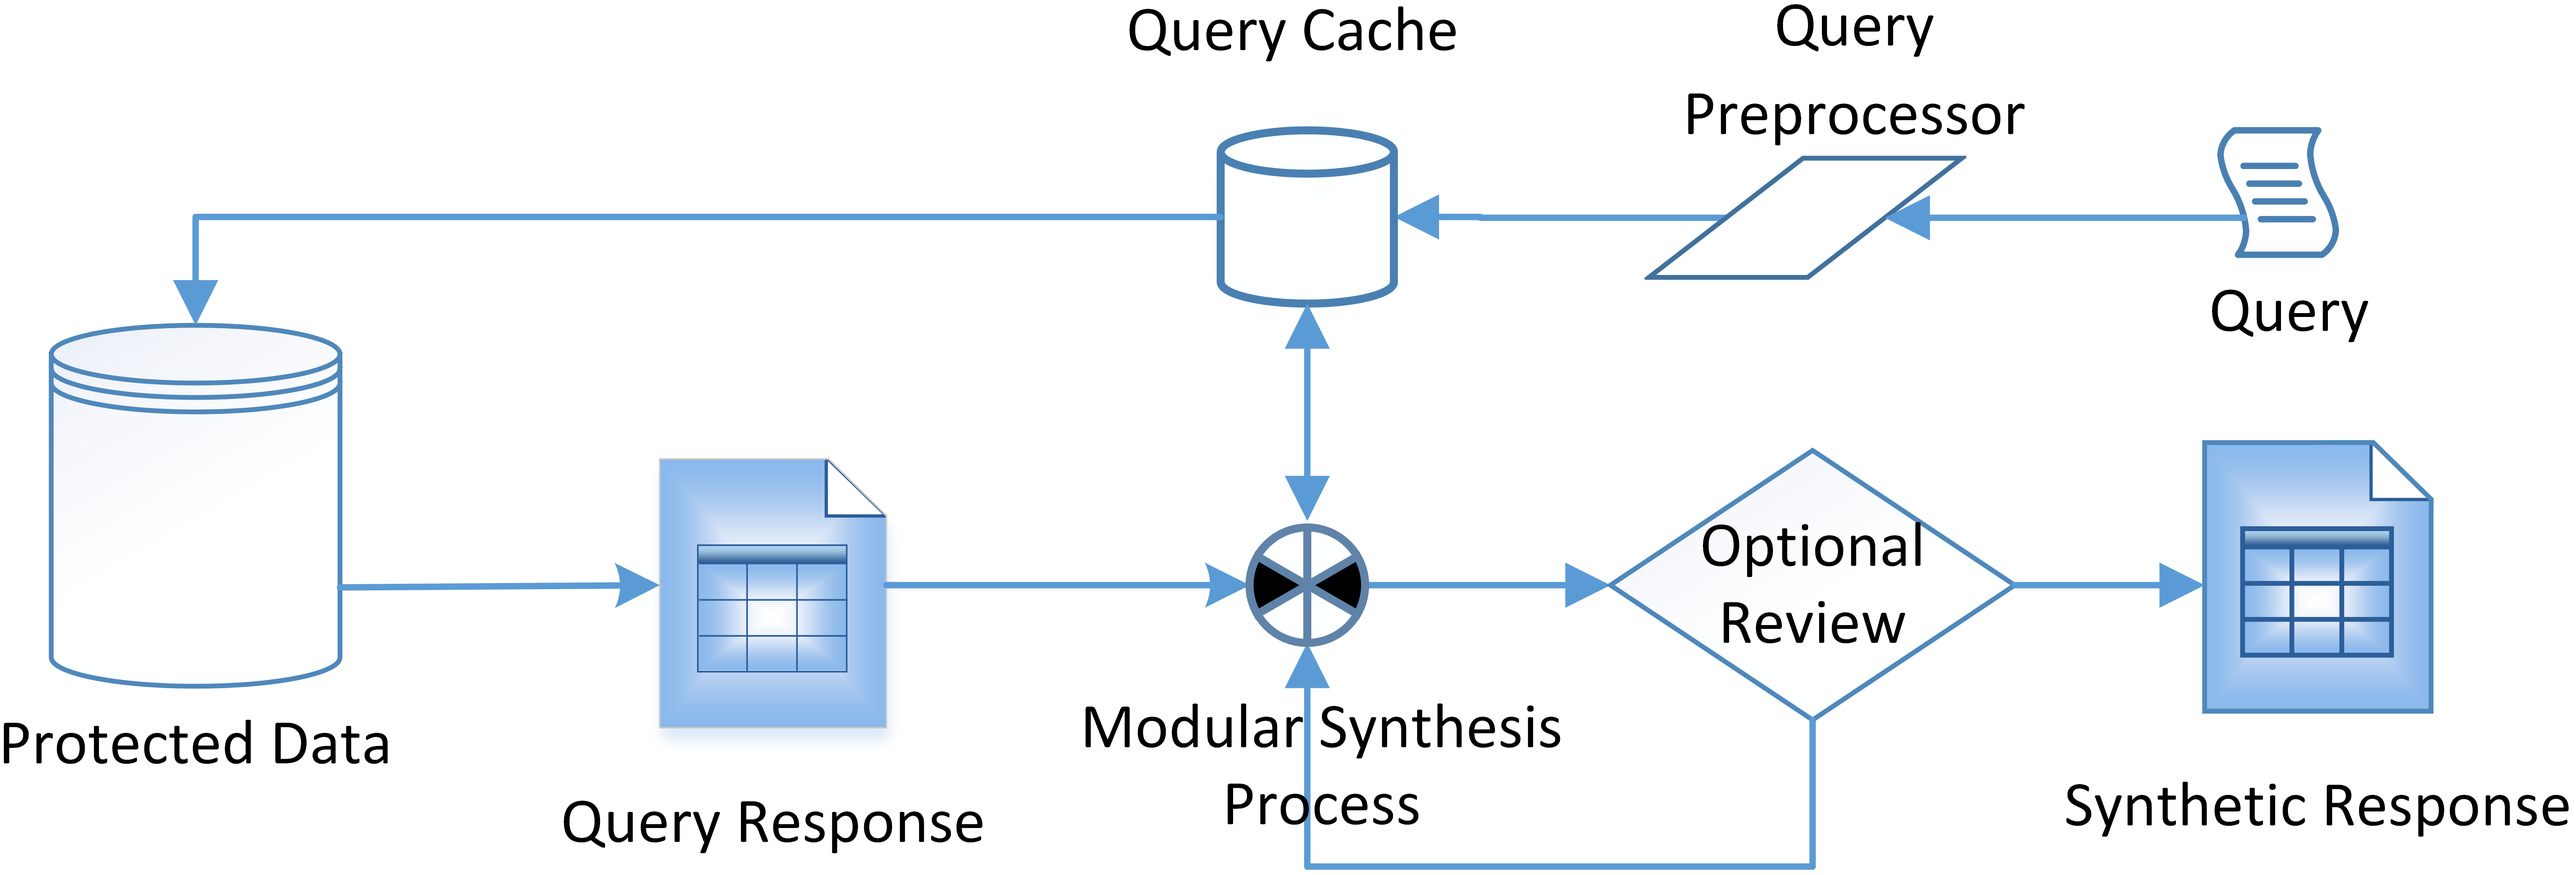
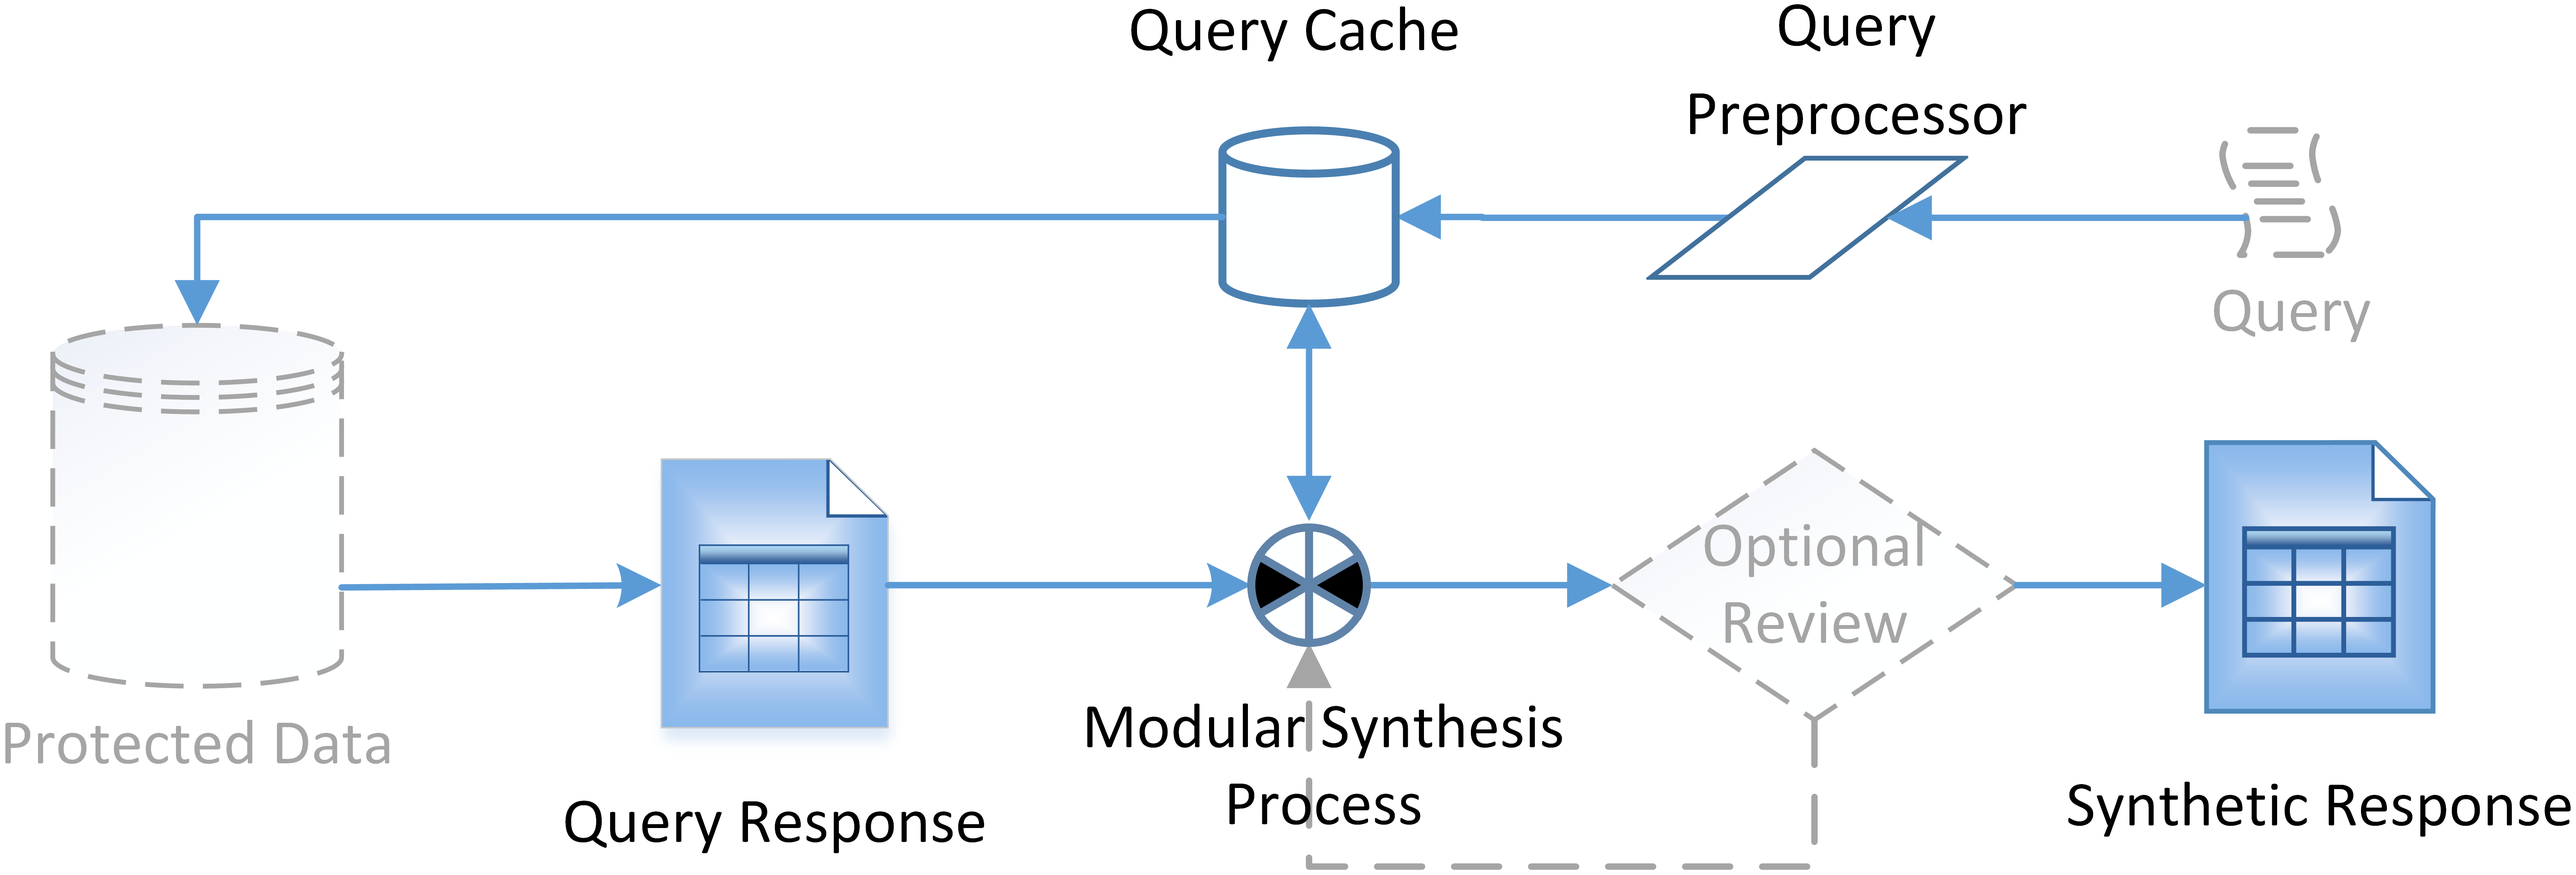
Auto Update from local Sharelatex

diff --git a/paper/amia.tex b/paper/amia.tex
@@ -82,7 +82,7 @@ KFP focuses on generating faux-data narrowed to a specific subset that a researc
 
 \subsection{System Architecture}
 
-Ideally a computational investigator should develop, test, and validate models using all available data. This is most easily accomplished when they have unfettered access to all data in the problem domain they are working in. Figure~\ref{fig:architecture} shows the novel architecture of KFP: data access through an intermediary that can synthesize data on-demand.
+Ideally a computational investigator should develop, test, and validate models using all available data. This is most easily accomplished when they have unfettered access to all data in the problem domain they are working in. Figure~\ref{fig:architecture} shows the novel architecture of KFP: data access through an intermediary that can synthesize data on-demand. Items in blue are features of KFP; items in grey or with dashed lines are not provided. KFP is designed to fit into an existing infrastructure with a protected data source secured behind a firewall along with user authentication. 
 
 \begin{figure}[ht]
   \centering
@@ -91,7 +91,7 @@ Ideally a computational investigator should develop, test, and validate models u
   \label{fig:architecture}
 \end{figure}
 
-Figure~\ref{fig:synthesis_process} shows the automated faux-data request/response process. All queries submitted to the system are first pre-processed to remove clauses such as "ORDER BY" which are made ineffective by the synthesis process. All queries are logged for later analysis and results cached to optionally improve synthesis performance for repeated queries. Next the processed query is executed against the protected data set and results are passed into the modular synthesis process. While the current implementation only utilizes a couple of synthesis methods, data scientists or data warehouse owners can insert their own custom method or modify existing methods. Previously removed "ORDER BY" clauses are re-applied to the faux-data before results are returned to the user. Finally, although not implemented in this version of KFP, synthetic results could be held back until reviewed and approved for release by the data owner.
+Figure~\ref{fig:synthesis_process} shows the automated faux-data request/response process. Items in grey with dashed lines are not provided by KFP but are either pre-existing or provided by the user. All queries submitted to the system are first pre-processed to remove clauses such as "ORDER BY" which are made ineffective by the synthesis process. All queries are logged for later analysis and results cached to optionally improve synthesis performance for repeated queries. Next the processed query is executed against the protected data set and results are passed into the modular synthesis process. While the current implementation only utilizes a couple of synthesis methods, data scientists or data warehouse owners can insert their own custom method or modify existing methods. For additional details on the modular synthesis processes, see the section "Included Synthesis Methods." Previously removed "ORDER BY" clauses are re-applied to the faux-data before results are returned to the user. Finally, although not implemented in this version of KFP, synthetic results could be held back until reviewed and approved for release by the data owner.
 
 \begin{figure}[ht]
   \centering
@@ -111,7 +111,7 @@ KFP provides multiple methods by which a health data scientist can access on-dem
 
 \subsection{Included Synthesis Methods}
 
-KFP provides a framework by which any number of methods for data privacy can be carried out. For demonstration purposes we have implemented two plugins that use different techniques for data synthesis. The kernel density estimator from scipy.stats.gaussian\_kde uses the method developed by Silverman \cite{silverman_density_1986} which handles inter-related ordinal and ratio data yet runs quickly on standard consumer level hardware. The DataSynthesizer method, created by Ping et al. \cite{ping17datasynthesizer} is built on differential privacy mechanisms and has multiple internal methods for data generation ranging from random generation based on data type to Bayesian modeling of inter-relationships among columns of data. As a result of their methods, the DataSynthesizer offers a unique contribution to the synthetic data generation space: it can work with no configuration other than input data, or can be configured to provide more custom results. In DataSynthesizer, the authors show that the synthetic data generated preserves privacy while still being useful enough for actual data analysis (see also \cite{howe_synthetic_2017}).
+KFP provides a framework by which any number of methods for data privacy can be carried out. This framework is comprised of a provided base class, several examples of plugins, and unit tests for validation purposes. As of this writing we have implemented two plugins that use different techniques for data synthesis: a kernel density estimator and DataSynthesizer. The kernel density estimator from scipy.stats.gaussian\_kde uses the method developed by Silverman \cite{silverman_density_1986} which handles inter-related ordinal and ratio data yet runs quickly on standard consumer level hardware. The DataSynthesizer method, created by Ping et al. \cite{ping17datasynthesizer} is built on differential privacy mechanisms and has multiple internal methods for data generation ranging from random generation based on data type to Bayesian modeling of inter-relationships among columns of data. As a result of their methods, the DataSynthesizer offers a unique contribution to the synthetic data generation space: it can work with no configuration other than input data, or can be configured to provide more custom results. In DataSynthesizer, the authors show that the synthetic data generated preserves privacy while still being useful enough for actual data analysis (see also \cite{howe_synthetic_2017}).
 
 \section{Experiments}
 
